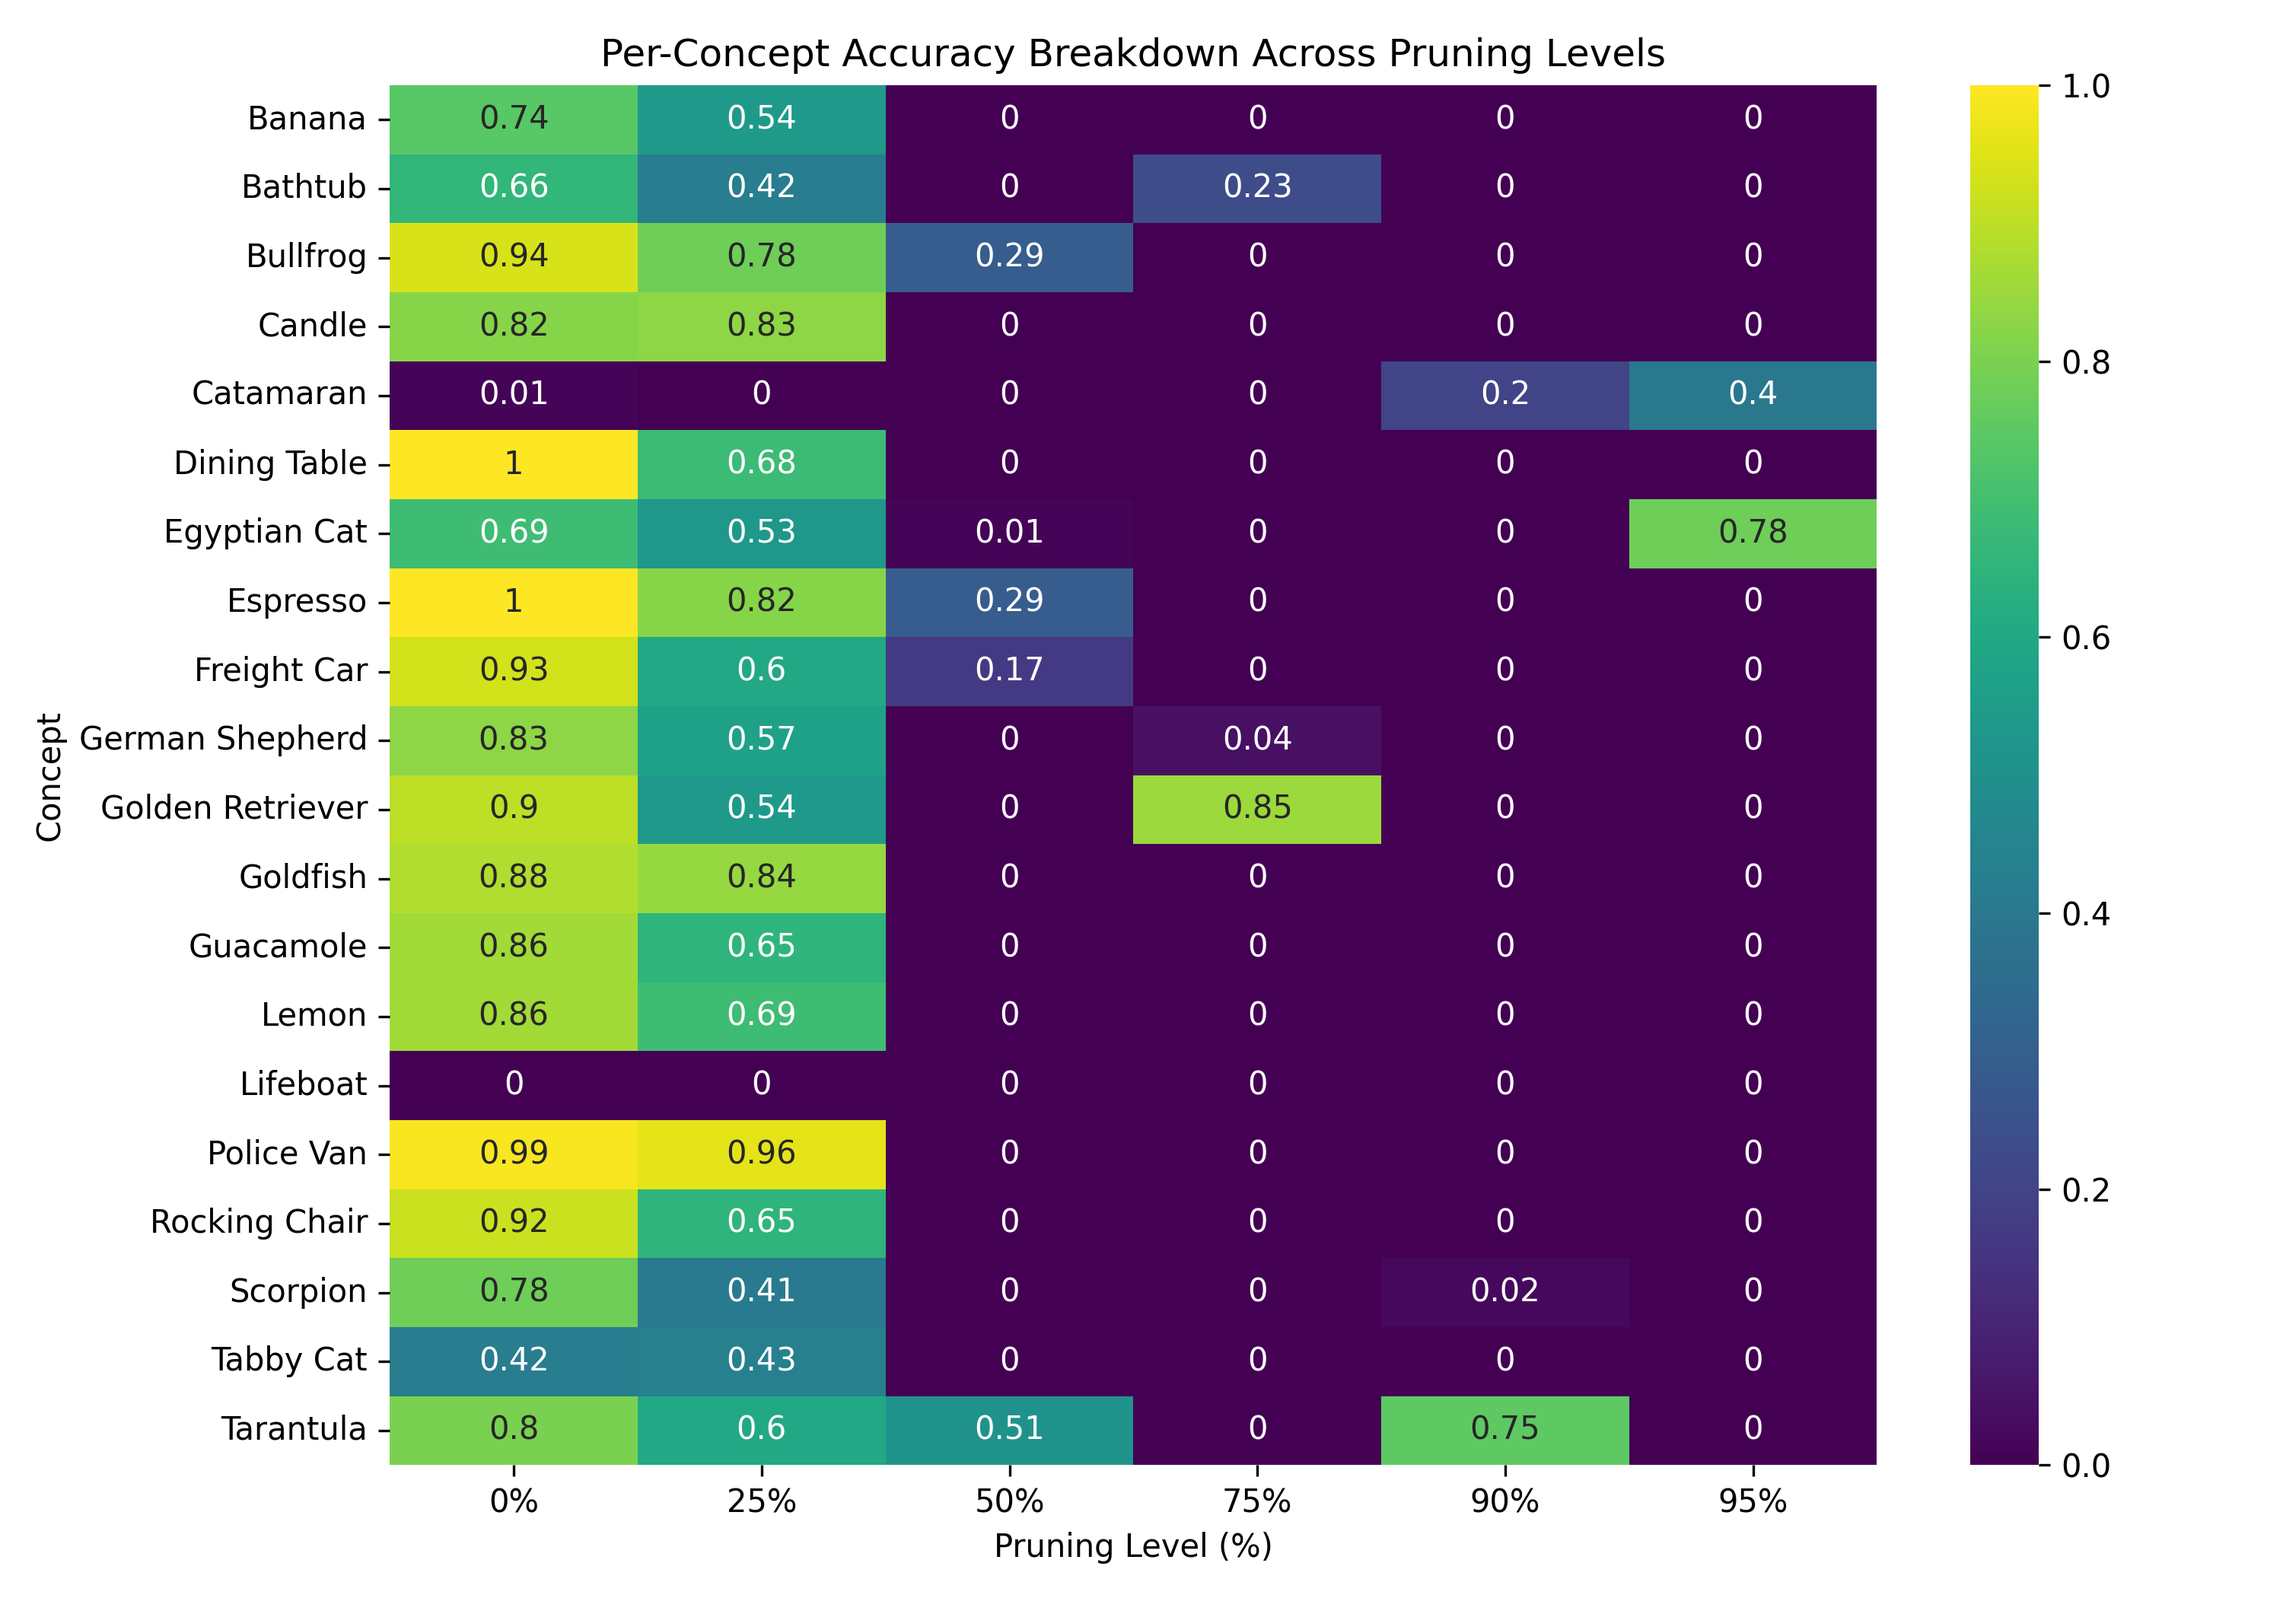
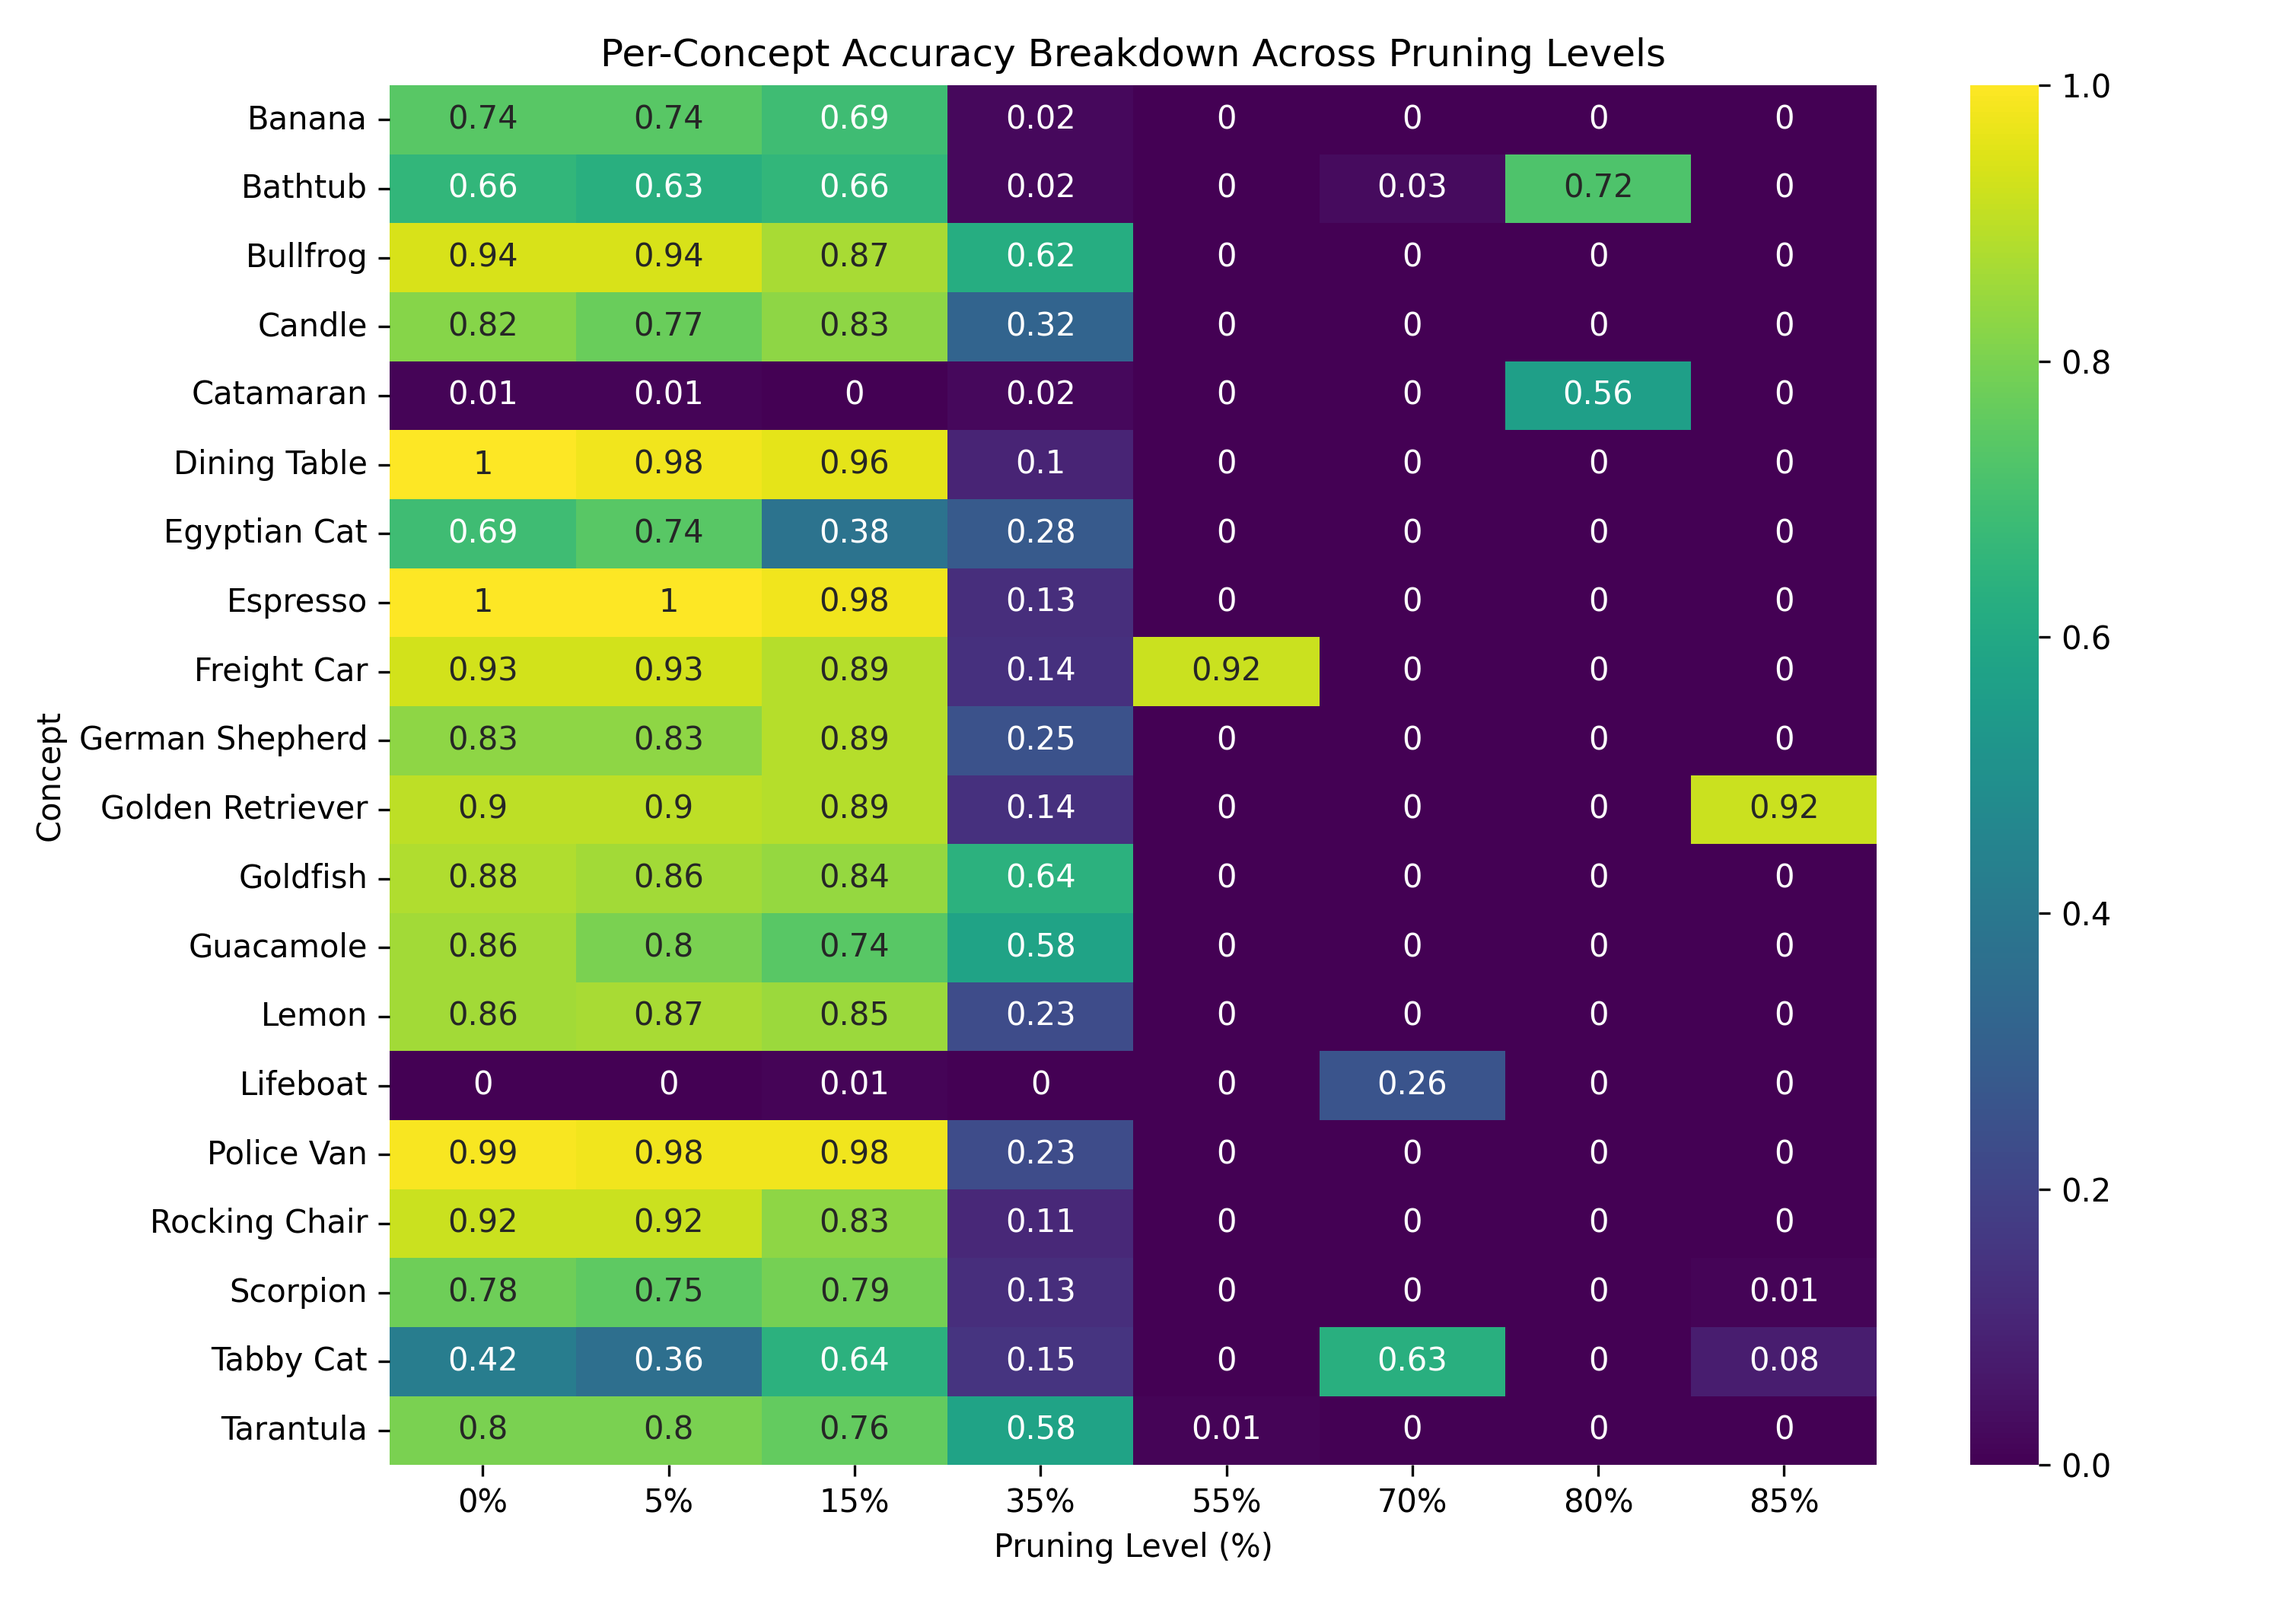
updated evl metrics 2

diff --git a/src/generate_tsne.py b/src/generate_tsne.py
@@ -1,89 +1,118 @@
 import os
+import matplotlib.colors as mcolors
 import matplotlib.pyplot as plt
-import pandas as pd
-import seaborn as sns
-from sklearn.manifold import TSNE
+import numpy as np
 import torch
+from sklearn.manifold import TSNE
 
 
 def generate_joint_hierarchical_tsne(
-    evaluator,
-    pruning_levels=[0.0, 0.25, 0.50, 0.75, 0.90, 0.95],
-    output_dir="./data/results",
+    evaluator, pruning_levels=[0.0, 0.05, 0.15, 0.35, 0.55, 0.70, 0.80, 0.85]
 ):
-    os.makedirs(output_dir, exist_ok=True)
-    fig, axes = plt.subplots(2, 3, figsize=(18, 10))
-    axes = axes.flatten()
+    """Plot t-SNE trajectories dynamically scaled to match any number of pruning levels."""
+    print("[*] Generating Joint Hierarchical t-SNE Plots...")
+    meta = evaluator.metadata.reset_index(drop=True)
+
+    spec_col = next(
+        (c for c in ["specific", "concept", "label"] if c in meta.columns),
+        "specific",
+    )
+    coord_col = next(
+        (c for c in ["coordinate", "category"] if c in meta.columns),
+        "coordinate",
+    )
+    super_col = next(
+        (
+            c
+            for c in ["superordinate", "domain", "macro"]
+            if c in meta.columns
+        ),
+        "superordinate",
+    )
+
+    super_classes = sorted(list(meta[super_col].unique()))
+    coord_classes = sorted(list(meta[coord_col].unique()))
+    spec_classes = sorted(list(meta[spec_col].unique()))
+
+    hue_map = {
+        s: i / max(1, len(super_classes)) for i, s in enumerate(super_classes)
+    }
+
+    color_lut = {}
+    for _, row in meta.iterrows():
+        sp, co, su = row[spec_col], row[coord_col], row[super_col]
+        if sp not in color_lut:
+            h = hue_map[su]
+            co_idx = coord_classes.index(co)
+            s = 0.5 + 0.5 * (co_idx / max(1, len(coord_classes)))
+            sp_idx = spec_classes.index(sp)
+            v = 0.35 + 0.55 * (sp_idx / max(1, len(spec_classes)))
+            color_lut[sp] = mcolors.hsv_to_rgb((h, s, v))
+
+    # Dynamically compute rows and columns for the grid layout
+    n_plots = len(pruning_levels)
+    n_cols = 4
+    n_rows = (n_plots + n_cols - 1) // n_cols
+
+    fig, axes = plt.subplots(n_rows, n_cols, figsize=(20, 4.5 * n_rows))
+    axes = np.array(axes).flatten()
 
     for idx, p_level in enumerate(pruning_levels):
         pruned_model = evaluator._apply_pruning(evaluator.base_model, p_level)
-        (
-            img_feats,
-            text_feats,
-            labels,
-            unique_concepts,
-            eval_meta,
-        ) = evaluator._extract_joint_features(pruned_model)
-
-        combined = torch.cat([img_feats, text_feats], dim=0).cpu().numpy()
-
-        super_labels = (
-            eval_meta["superordinate"].tolist()
-            if "superordinate" in eval_meta.columns
-            else labels
+        img_feats, text_feats, labels, _, _ = evaluator._extract_joint_features(
+            pruned_model
         )
-        text_labels = ["Text Prompt"] * len(unique_concepts)
-        categories = super_labels + text_labels
-        modalities = ["Image"] * len(img_feats) + ["Text"] * len(text_feats)
 
-        tsne = TSNE(
-            n_components=2,
-            perplexity=min(30, max(5, len(combined) // 5)),
-            random_state=42,
-        )
-        emb_2d = tsne.fit_transform(combined)
+        all_feats = torch.cat([img_feats, text_feats], dim=0).numpy()
+        tsne = TSNE(n_components=2, perplexity=30, random_state=42, init="pca")
+        tsne_coords = tsne.fit_transform(all_feats)
 
-        df_tsne = pd.DataFrame(
-            {
-                "t-SNE 1": emb_2d[:, 0],
-                "t-SNE 2": emb_2d[:, 1],
-                "Category": categories,
-                "Modality": modalities,
-            }
-        )
+        n_img = len(img_feats)
+        img_coords = tsne_coords[:n_img]
+        text_coords = tsne_coords[n_img:]
 
         ax = axes[idx]
-        sns.scatterplot(
-            data=df_tsne,
-            x="t-SNE 1",
-            y="t-SNE 2",
-            hue="Category",
-            style="Modality",
-            ax=ax,
-            alpha=0.8,
-            s=45,
-            palette="tab10",
-        )
-        ax.set_title(
-            f"Pruning: {int(p_level * 100)}%", fontsize=11, fontweight="bold"
-        )
-        ax.grid(True, linestyle="--", alpha=0.3)
+        img_colors = [color_lut[c] for c in labels]
 
-        if idx != len(pruning_levels) - 1:
-            if ax.get_legend():
-                ax.get_legend().remove()
-        else:
-            ax.legend(bbox_to_anchor=(1.05, 1), loc="upper left", fontsize=8)
+        ax.scatter(
+            img_coords[:, 0],
+            img_coords[:, 1],
+            c=img_colors,
+            marker="o",
+            alpha=0.7,
+            s=25,
+            label="Image Embeddings",
+        )
+        ax.scatter(
+            text_coords[:, 0],
+            text_coords[:, 1],
+            c="black",
+            marker="X",
+            s=70,
+            edgecolors="white",
+            linewidth=1,
+            label="Text Prompts",
+        )
+
+        ax.set_title(
+            f"Pruning: {p_level * 100:.0f}%", fontsize=12, fontweight="bold"
+        )
+        ax.grid(True, linestyle="--", alpha=0.4)
+
+    # Hide unused subplot axes
+    for unused in range(n_plots, len(axes)):
+        fig.delaxes(axes[unused])
 
     plt.suptitle(
-        "Full Dataset Joint Feature Space (Image & Text) Trajectory Under Pruning",
+        "Full Dataset Joint Feature Space Trajectory Under Hierarchical HSV Color Mapping",
         fontsize=14,
         fontweight="bold",
-        y=0.98,
     )
     plt.tight_layout()
-
-    save_path = os.path.join(output_dir, "joint_tsne_trajectory.png")
-    plt.savefig(save_path, dpi=300, bbox_inches="tight")
+    save_path = os.path.join(
+        "data", "results", "hierarchical_hsv_tsne_trajectory.png"
+    )
+    os.makedirs(os.path.dirname(save_path), exist_ok=True)
+    plt.savefig(save_path, dpi=300)
     plt.close()
-    print(f"[+] Saved entire dataset joint t-SNE trajectory to: {save_path}")
+    print(f"[+] Hierarchical HSV t-SNE plot saved to: {save_path}")
